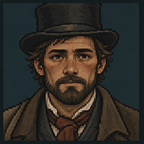
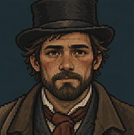
fix: opciones de diálogo con texto largo pisaban la posición y el click de las siguientes
renderChoices() espaciaba cada opción con un paso fijo (26px), sin
importar si la anterior había ocupado una o dos líneas por el wordWrap.
"Alguien va a tener que explicar esto." (38 caracteres) rompe a dos
líneas, y con el paso fijo la posición Y (y el área de toque, que
tampoco consideraba la altura real) de las opciones siguientes quedaba
mal calculada — se veía un espacio raro entre la 2da y 3ra opción, y
clickearlas no hacía nada.

Ahora el próximo Y sale de t.height (ya sabe cuántas líneas ocupó la
opción anterior), mismo patrón que ya usa UiScene.openOverlay(). El
hitArea también usa t.height en vez de un alto fijo.

Verificado en vivo: las 3 opciones de Edwyn se ven bien espaciadas y
elegir una aplica su efecto y avanza a la rama correcta.

Además: Mari y Dafydd se habían agregado a tamaño completo (~1.2-1.5MB
c/u) sin pasar por el resize a 144×144, y "dafydd_neutro.png" tenía un
nombre que el código nunca iba a reconocer (espera "neutral", no
"neutro") — nunca hubiera cargado. Corregidos ambos.

diff --git a/src/ui/DialogueBox.ts b/src/ui/DialogueBox.ts
@@ -161,23 +161,31 @@ export class DialogueBox {
   private renderChoices(line: RenderedLine): void {
     this.bodyText.setVisible(false);
     this.nameText.setVisible(true);
-    const startY = 26; // misma altura que bodyText, para que las opciones sigan la línea
-    const items = line.choices.map((c, i) => {
+    // el paso entre opciones tiene que salir de cuánto ocupó REALMENTE la anterior
+    // (t.height, ya sabe cuántas líneas ocupó por el wordWrap) — con un paso fijo,
+    // una opción larga de dos líneas ("Alguien va a tener que explicar esto.")
+    // pisaba la posición Y (y el área de toque) de la siguiente, así que ni el
+    // texto quedaba bien espaciado ni respondía el click en la opción de abajo.
+    let y = 26; // misma altura que bodyText, para que las opciones sigan la línea
+    const items = line.choices.map((c) => {
       const t = crisp(
         this.scene.add
           // arranca 6px más a la derecha que antes: deja lugar al cursor "›" que
           // dibuja SelectList a la izquierda de la opción activa, sin pisar el retrato.
-          .text(70, startY + i * 26, c.text, {
+          .text(70, y, c.text, {
             fontFamily: FONT_FAMILY,
             fontSize: FONT.body,
             color: '#BFD3D8',
             wordWrap: { width: TRAY.w - 80 },
+            lineSpacing: 4,
           })
           .setResolution(4),
       ).setInteractive({ useHandCursor: true });
       // objetivo táctil de 20px internos mínimo (docs/03-assets.md), con margen extra
-      // (el -14 en vez de -8 compensa que el texto ahora arranca 6px más a la derecha)
-      t.input!.hitArea = new Phaser.Geom.Rectangle(-14, -8, TRAY.w - 58, 28);
+      // (el -14 en vez de -8 compensa que el texto ahora arranca 6px más a la derecha),
+      // y alto real de t.height en vez de un 28 fijo — para que una opción de dos
+      // líneas tenga toda su altura clickeable, no solo la primera línea.
+      t.input!.hitArea = new Phaser.Geom.Rectangle(-14, -8, TRAY.w - 58, t.height + 12);
       const onPick = (): void => {
         bus.emit('ui:toast', { text: '' });
         this.show(this.sys.choose(c.id));
@@ -187,6 +195,7 @@ export class DialogueBox {
       t.on('pointerdown', onPick);
       this.choiceTexts.push(t);
       this.root.add(t);
+      y += t.height + 6;
       return { text: t, onPick };
     });
     // abajo/arriba + botón de acción, además del click/tap (GDD §8)
